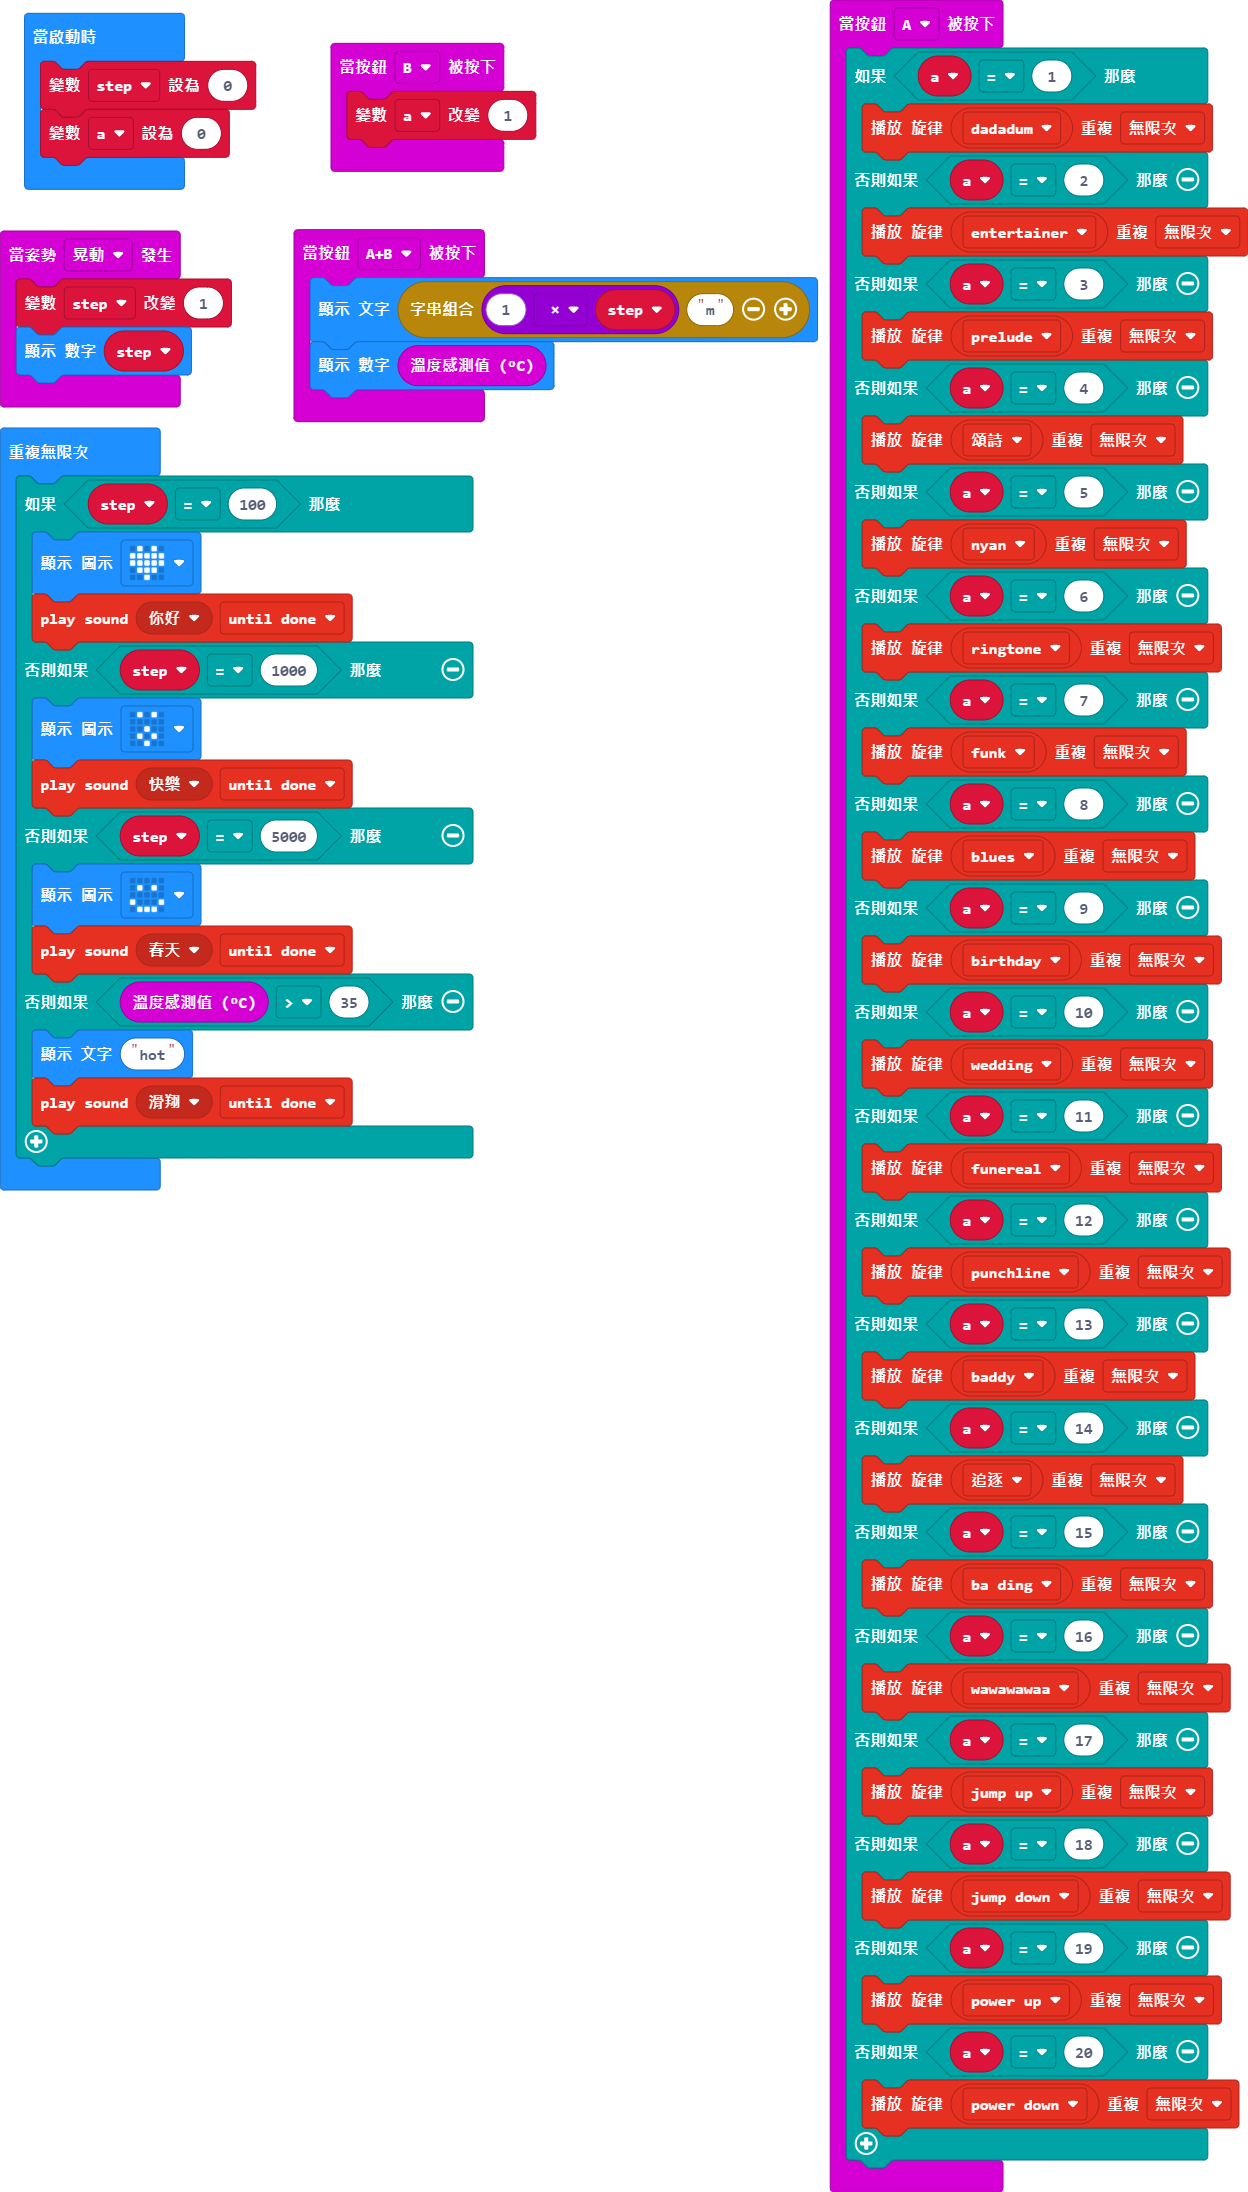
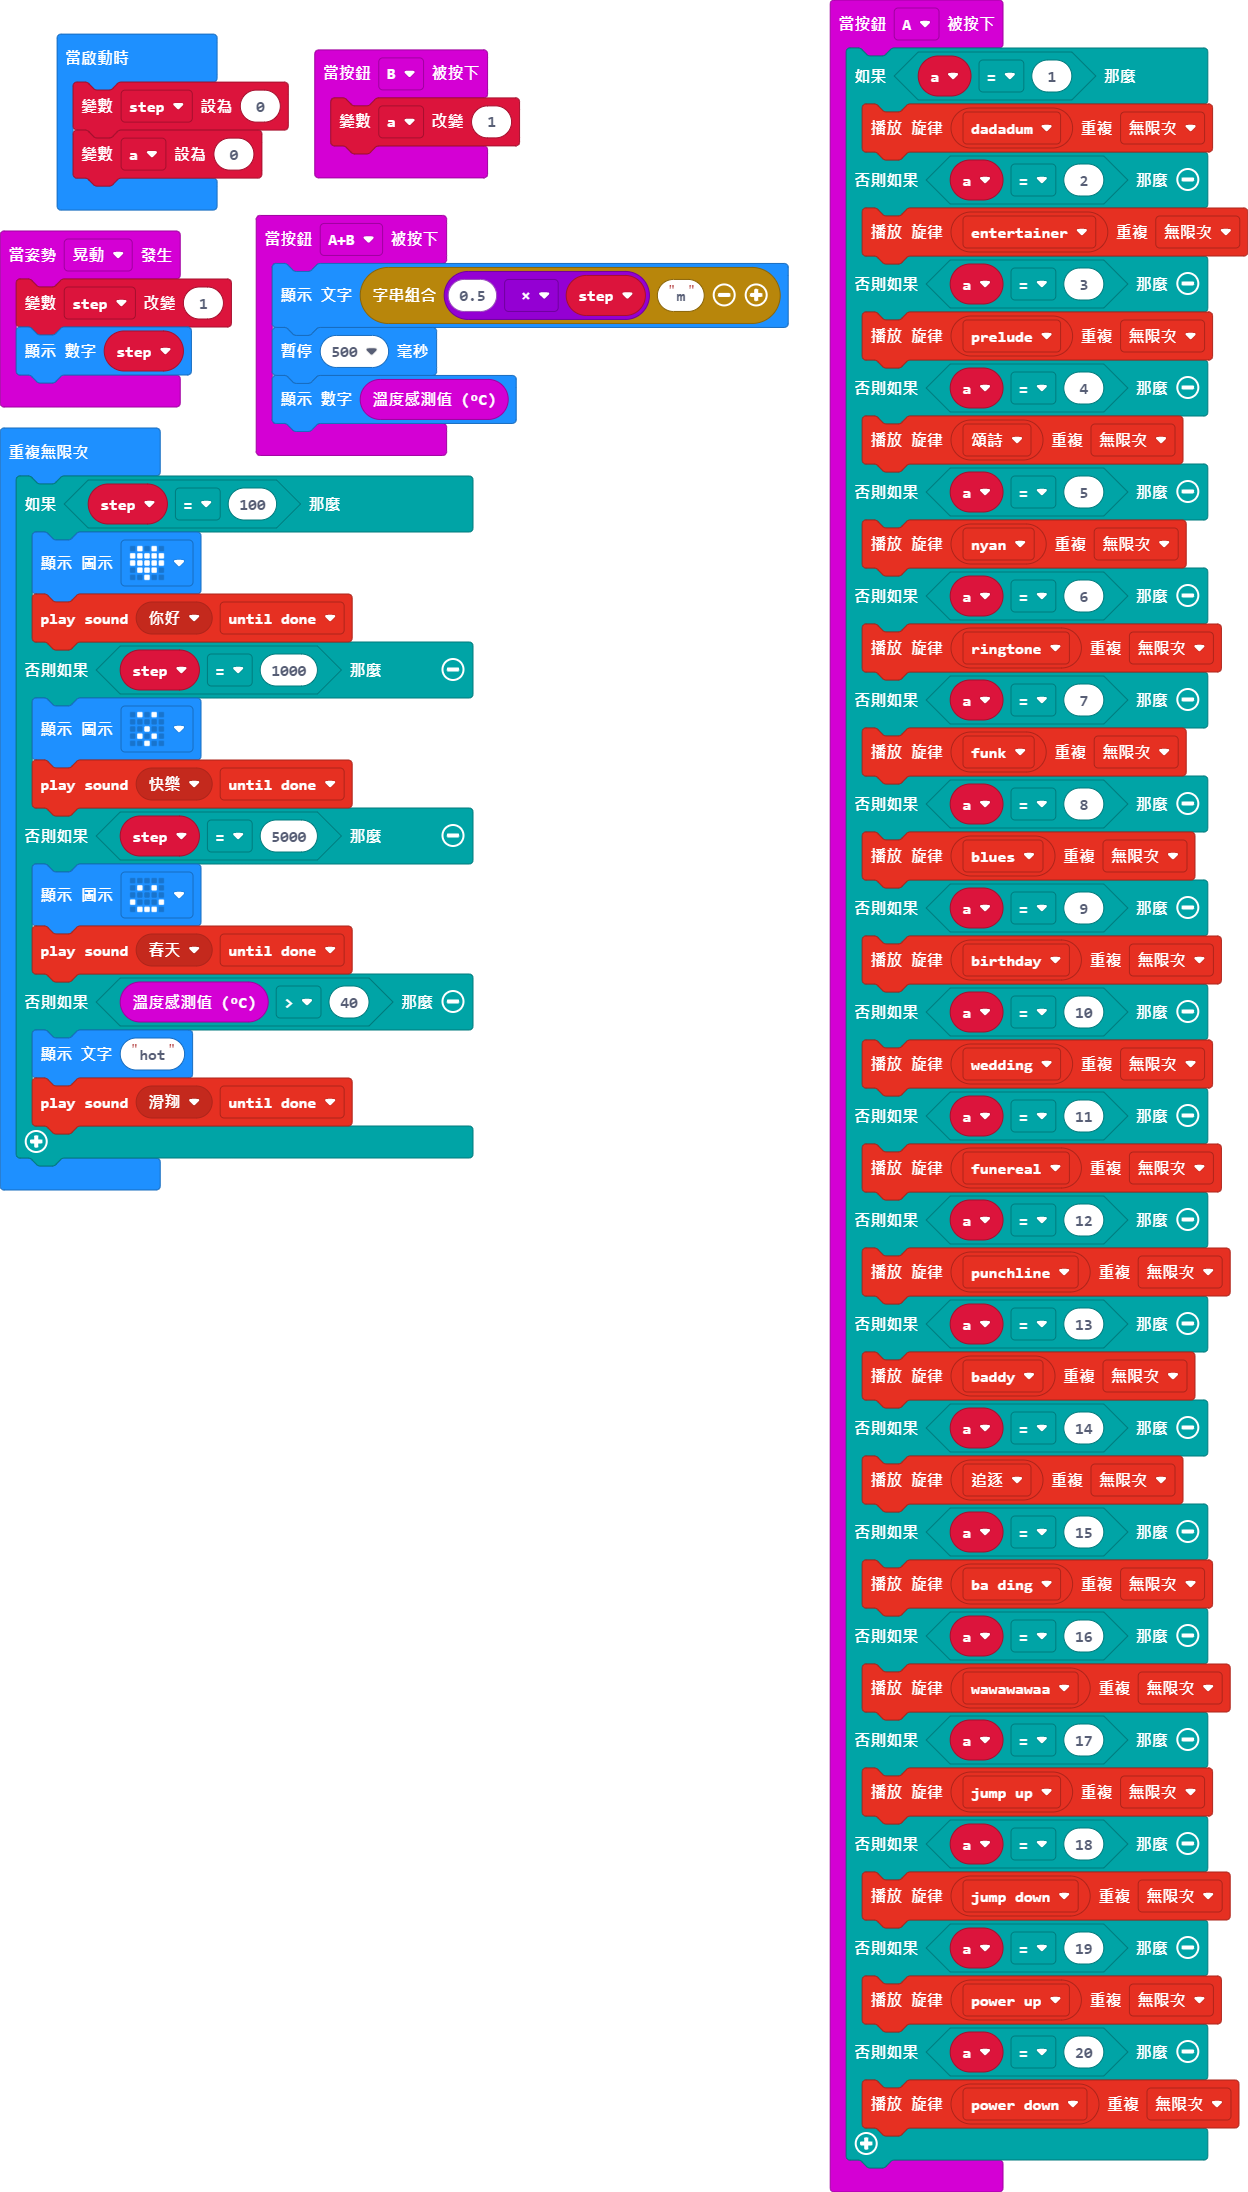
更新 main.blocks, main.ts

Changed region(s): [[0.0, 0.0, 0.6562, 0.2172]]

diff --git a/main.ts b/main.ts
@@ -46,7 +46,8 @@ input.onGesture(Gesture.Shake, function () {
     basic.showNumber(step)
 })
 input.onButtonPressed(Button.AB, function () {
-    basic.showString("" + 1 * step + "m")
+    basic.showString("" + 0.5 * step + "m")
+    basic.pause(500)
     basic.showNumber(input.temperature())
 })
 input.onButtonPressed(Button.B, function () {
@@ -66,7 +67,7 @@ basic.forever(function () {
     } else if (step == 5000) {
         basic.showIcon(IconNames.Happy)
         music.playSoundEffect(music.builtinSoundEffect(soundExpression.spring), SoundExpressionPlayMode.UntilDone)
-    } else if (input.temperature() > 35) {
+    } else if (input.temperature() > 40) {
         basic.showString("hot")
         music.playSoundEffect(music.builtinSoundEffect(soundExpression.slide), SoundExpressionPlayMode.UntilDone)
     }
